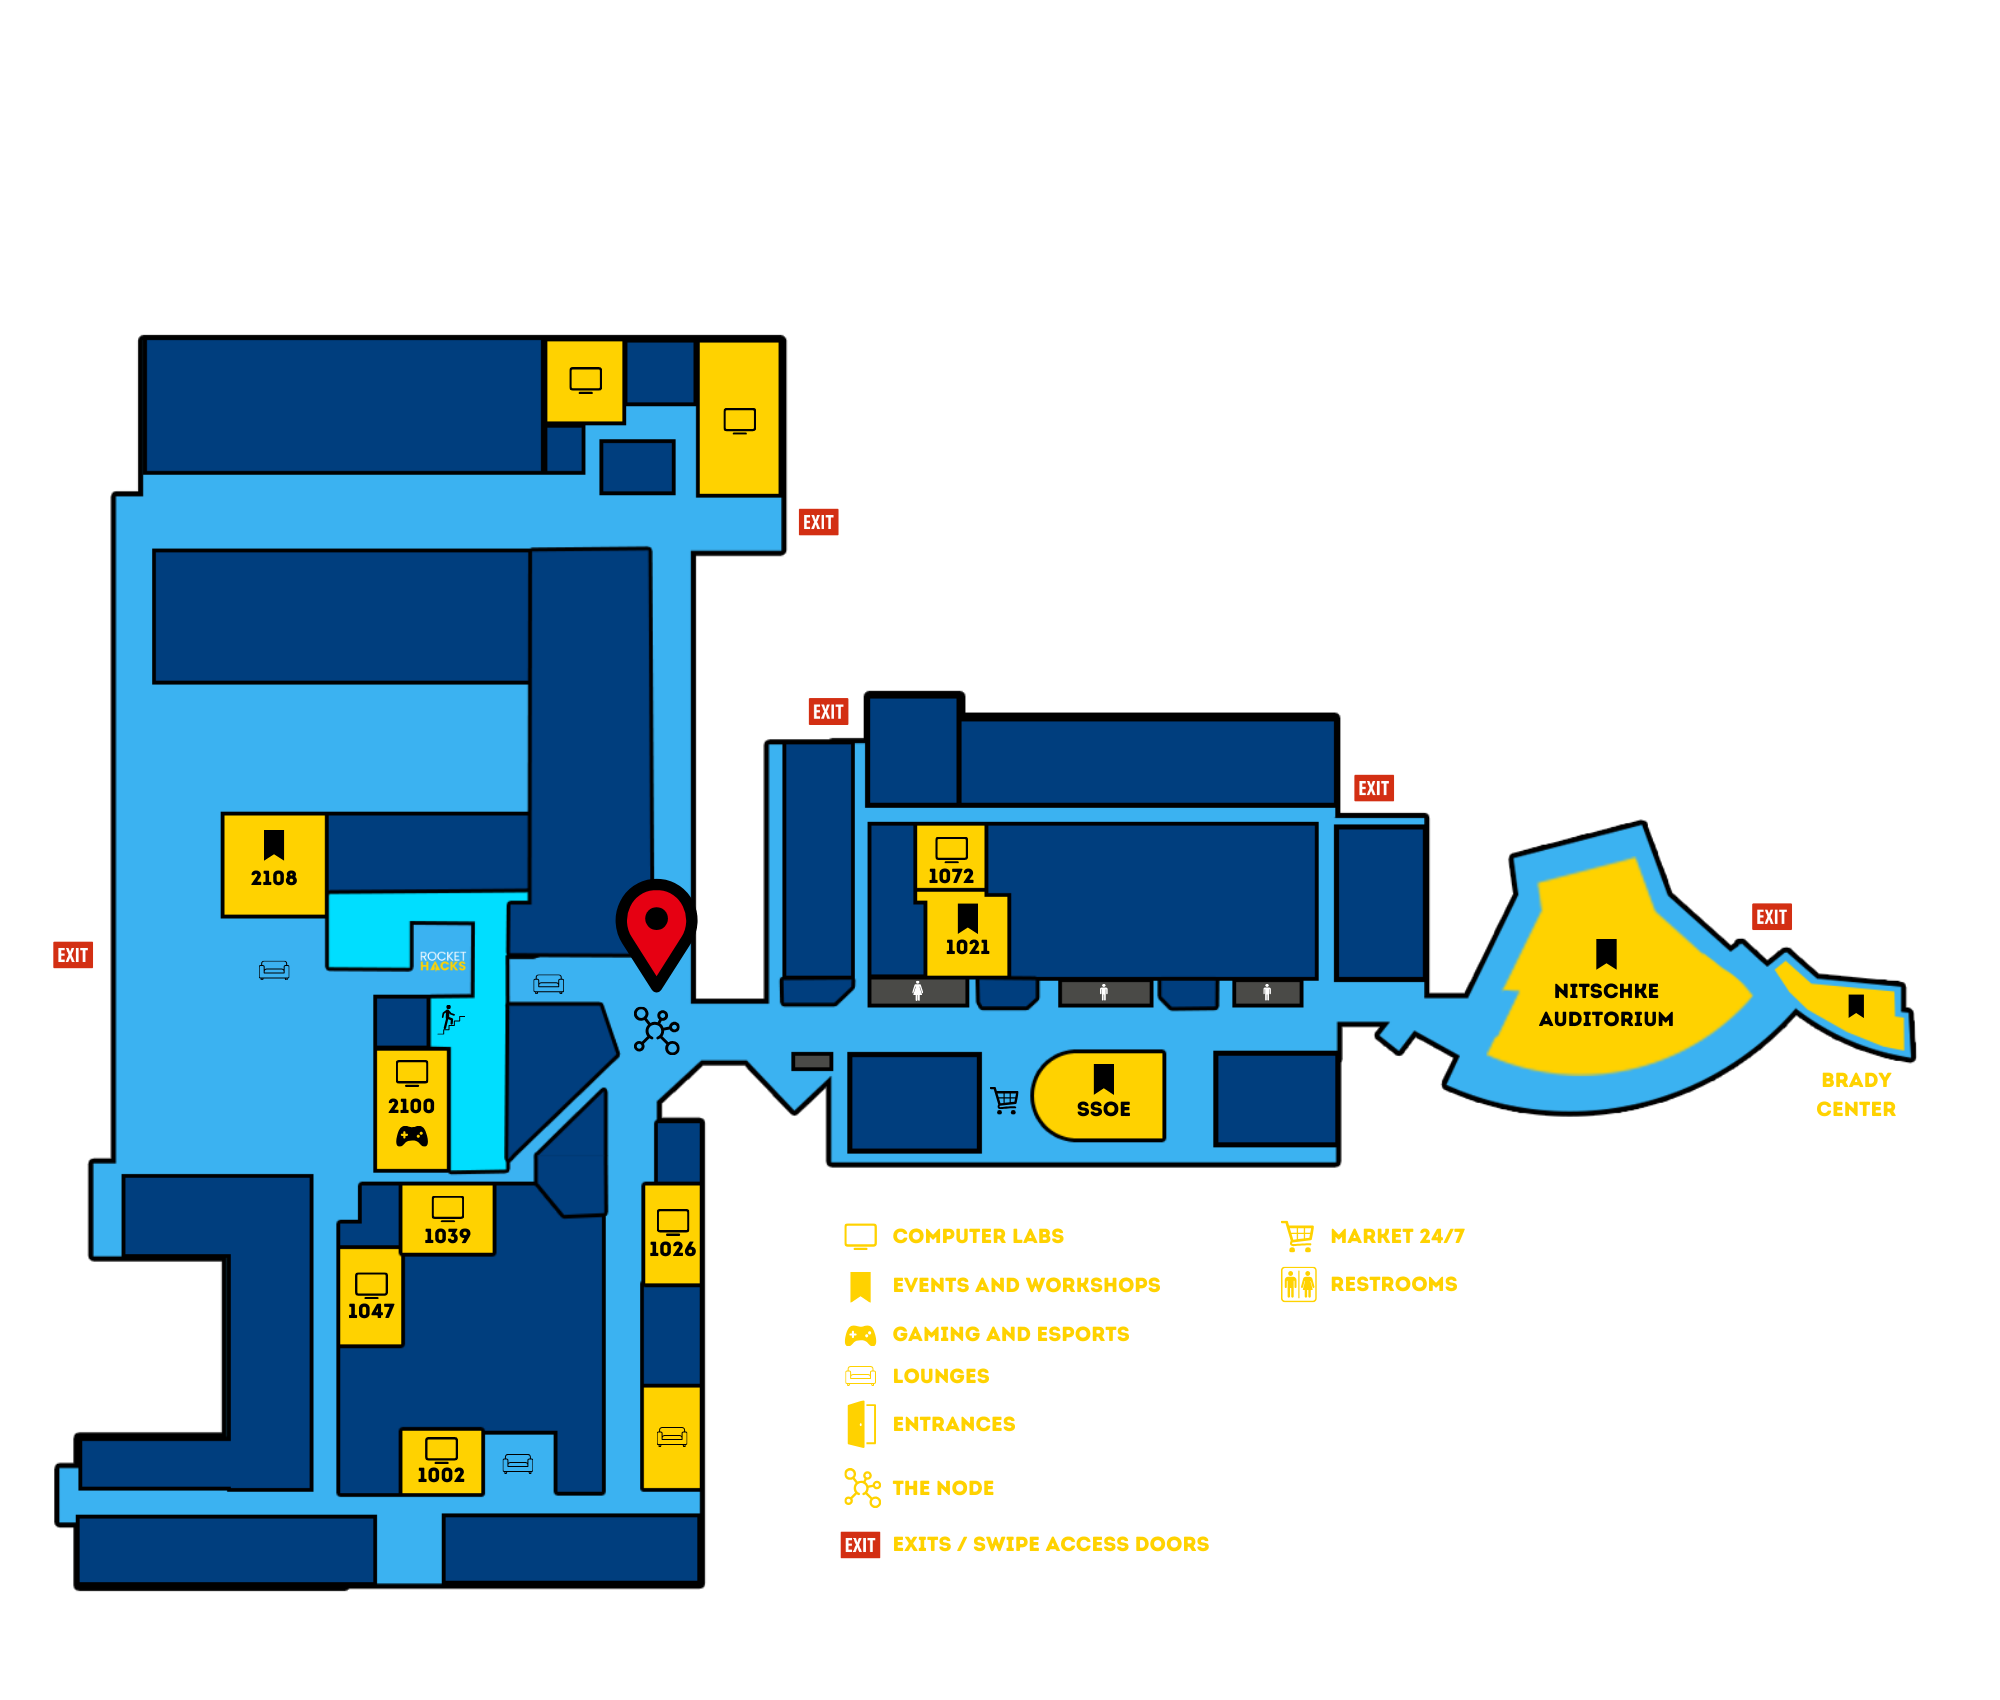
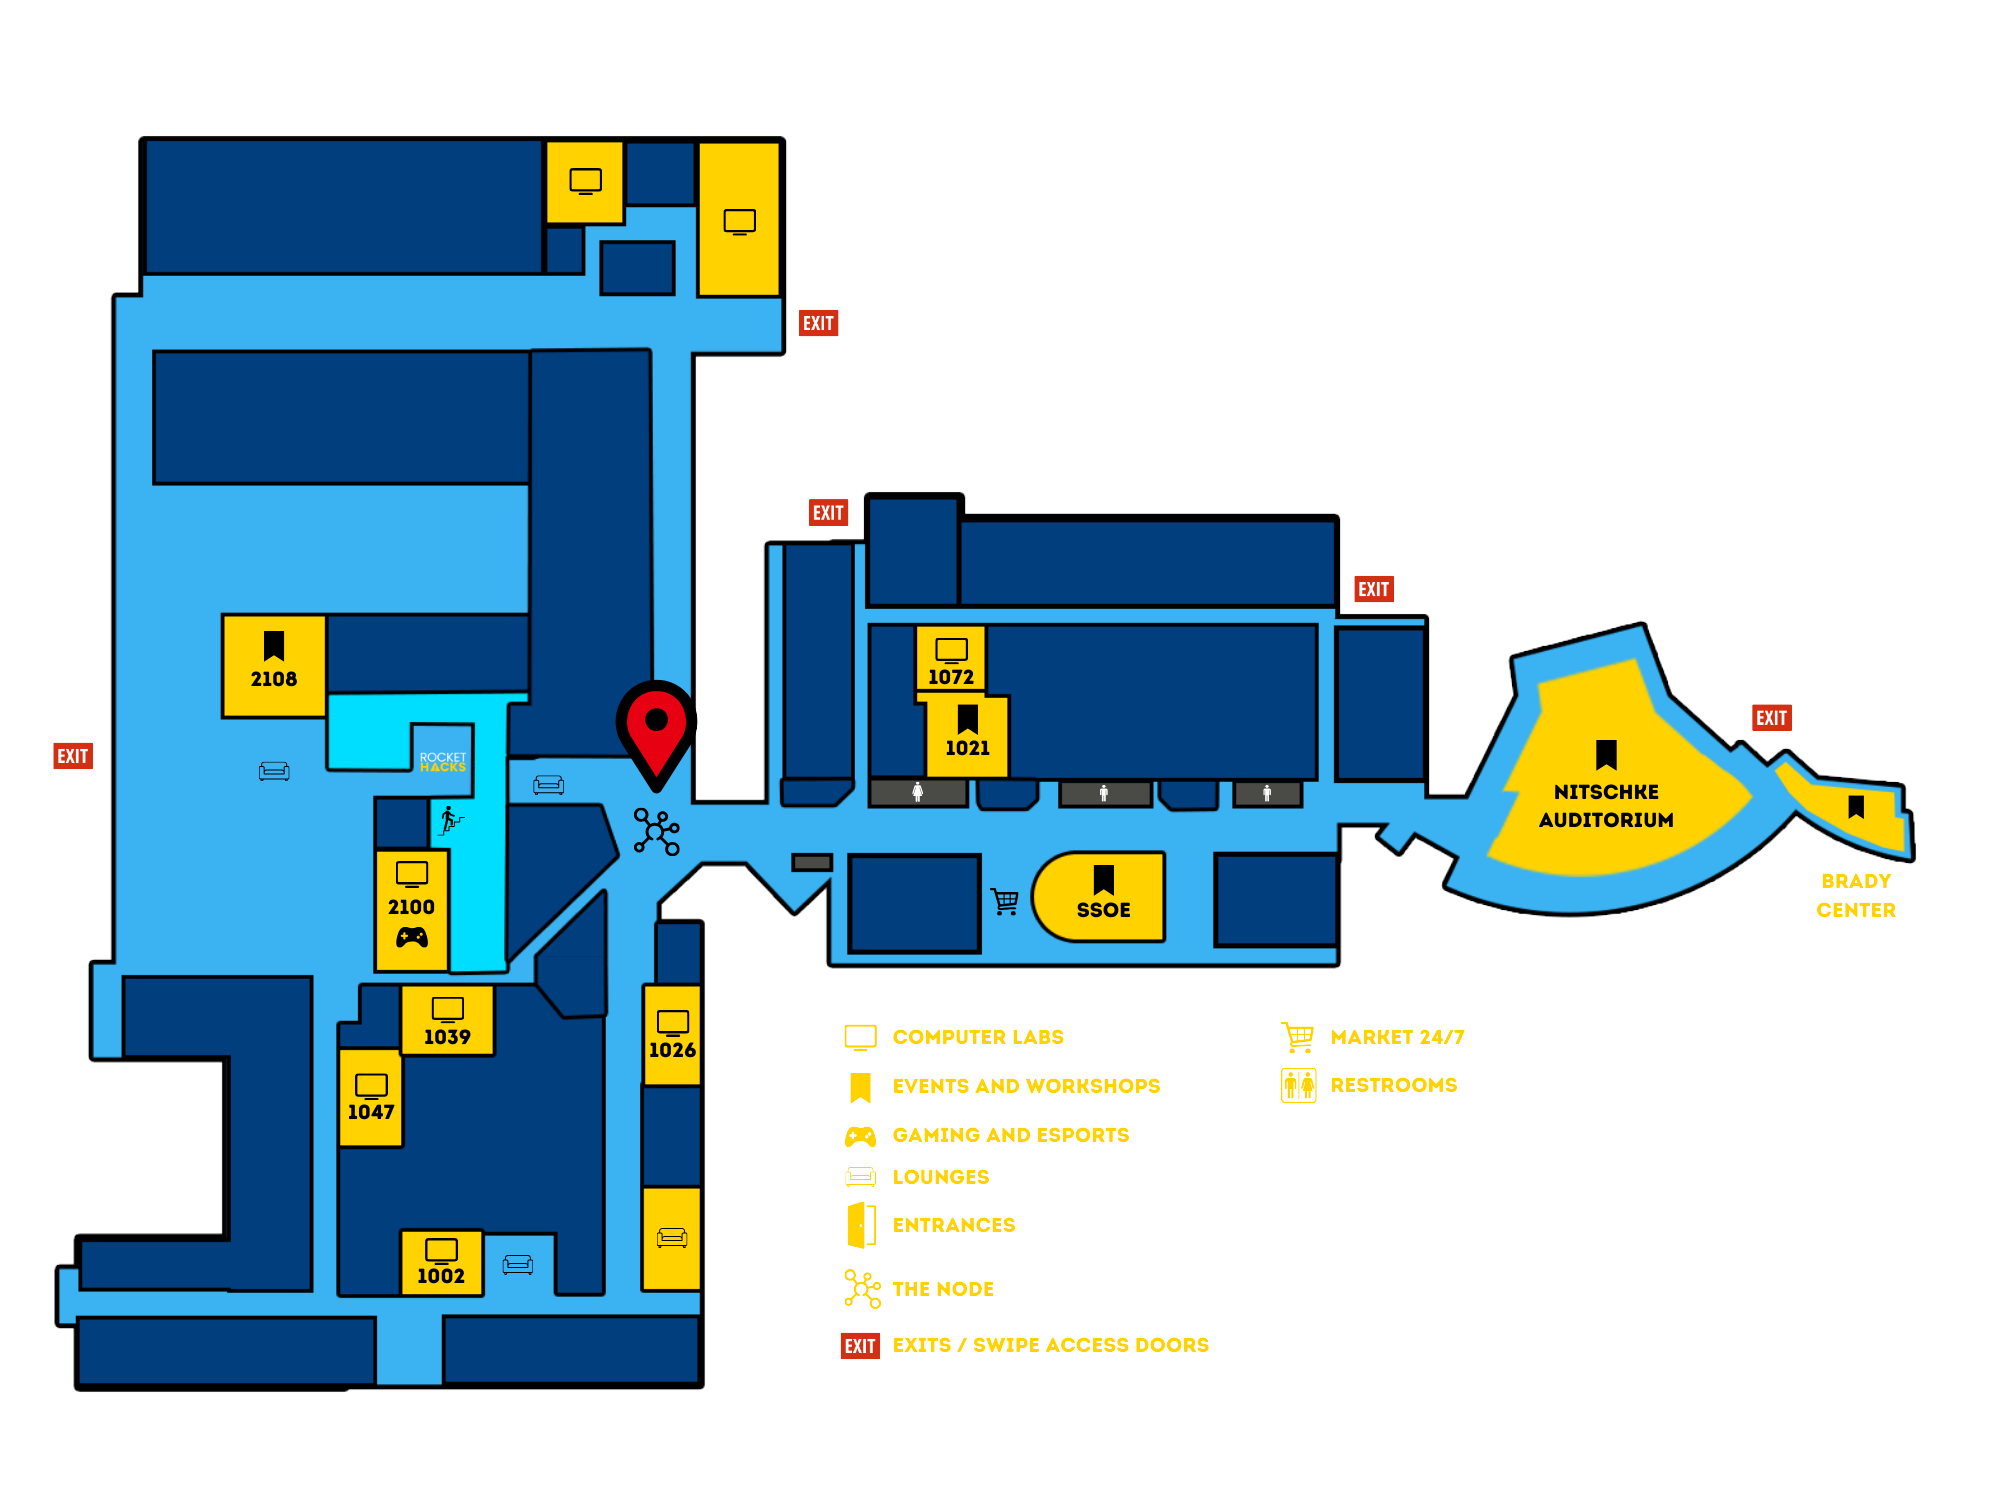
Update how the map is presented

Changed region(s): [[0.031, 0.0919, 0.961, 0.95], [0.031, 0.5516, 0.062, 0.5823], [0.031, 0.4903, 0.062, 0.521]]

diff --git a/src/components/schedule/Schedule.tsx b/src/components/schedule/Schedule.tsx
@@ -10,6 +10,7 @@ import {
 } from "@/components/ui/accordion";
 import localFont from "next/font/local";
 import { motion, AnimatePresence } from "framer-motion";
+import Link from "next/link";
 
 const terminal = localFont({ src: "../../app/fonts/terminal-grotesque.ttf" });
 
@@ -140,78 +141,25 @@ export default function Schedule() {
   const [mapMarginBottom, setMapMarginBottom] = useState(0);
   const [isLargeScreen, setIsLargeScreen] = useState(false);
 
-  // Declare mapRef before use
-  const mapRef = useRef<HTMLImageElement | null>(null);
-
   const filteredCollegeSchedule = collegeSchedule.filter(
     (item) => item.day === selectedCollegeDay
   );
-
-  // Check screen size on mount and window resize
-  useEffect(() => {
-    const checkScreenSize = () => {
-      setIsLargeScreen(window.innerWidth >= 1024); // 1024px is the typical breakpoint for lg screens
-    };
-
-    checkScreenSize(); // Check size initially
-    window.addEventListener("resize", checkScreenSize); // Check on resize
-
-    return () => {
-      window.removeEventListener("resize", checkScreenSize); // Clean up on unmount
-    };
-  }, []);
-
-  // Calculate zoom and position based on mouse location (only for lg+ screens)
-  const handleMouseMove = (e: React.MouseEvent<HTMLImageElement>) => {
-    if (!mapRef.current || !isLargeScreen) return; // Only run on large screens
-
-    const { left, top, width, height } = mapRef.current.getBoundingClientRect();
-    const mouseX = e.clientX - left;
-    const mouseY = e.clientY - top;
-
-    // Only apply zoom effect if the mouse is inside the image
-    if (mouseX < 0 || mouseY < 0 || mouseX > width || mouseY > height) {
-      return;
-    }
-
-    // Adjust the zoom level and map position based on mouse position
-    const zoomFactor = 2; // Adjust the zoom level here
-    const zoomX = ((mouseX / width) * 100).toFixed(2);
-    const zoomY = ((mouseY / height) * 100).toFixed(2);
-
-    // Increase margin-bottom more than before (e.g., zoomFactor * 50 for more space)
-    const newMarginBottom = zoomFactor > 1 ? zoomFactor * 200 : 0; // Increased the multiplier to 50
-
-    setZoomStyle({
-      transformOrigin: `${zoomX}% ${zoomY}%`,
-      transform: `scale(${zoomFactor})`,
-      transition: "transform 0.3s ease-in-out",
-    });
-
-    setMapMarginBottom(newMarginBottom); // Set margin-bottom dynamically based on zoom factor
-  };
-
-  // Reset zoom when mouse leaves
-  const handleMouseLeave = () => {
-    setZoomStyle({});
-    setMapMarginBottom(0); // Reset margin when zoom is removed
-  };
 
   return (
     <section id="schedule" className="mb-20">
       <div className="h-auto bg-cover bg-center bg-gradient-to-b from-[#051735] from-10%  to-80% to-[#030c1b]/50 px-4 py-8">
         <div className="flex flex-col items-center justify-center gap-6">
-          <div className="w-full md:w-1/2 flex justify-center items-center">
-            <img
-              ref={mapRef}
-              src="/COE_MAP_2.png"
-              alt="Event illustration"
-              className="object-cover rounded-lg shadow-lg cursor-pointer p-5"
-              style={{ ...zoomStyle, marginBottom: `${mapMarginBottom}px` }} // Apply marginBottom dynamically
-              onMouseMove={handleMouseMove} // Detect mouse position
-              onMouseLeave={handleMouseLeave} // Reset zoom when mouse leaves
-              onClick={() => setShowImageModal(true)}
-            />
+          <div className="w-full md:w-1/2 flex flex-col justify-center items-center">
+            <h1 className={`${terminal.className} text-4xl md:text-6xl text-[#FFDA20] text-center mt-5`}>EVENT MAP</h1>
+            <Link href="/Map" target="_blank" rel="noopener noreferrer">
+              <Image
+                src="/COE_MAP_2.png"
+                width={2000}
+                height={1501}
+                alt="Event illustration"
+                className="object-cover rounded-lg cursor-pointer"
+              />
+            </Link>
           </div>
           <div
             className={`${terminal.className} text-white w-full md:w-1/2 bg-slate-950/30 backdrop-blur-sm border-blue-600 border-2 rounded-md p-5`}

diff --git a/src/app/Map/page.tsx b/src/app/Map/page.tsx
@@ -1,0 +1,19 @@
+"use client";
+import React from "react";
+import Image from "next/image";
+
+export default function Map() {
+    return (
+        <>
+            <div className="h-auto bg-cover bg-center bg-gradient-to-b from-[#051735] from-10%  to-80% to-[#030c1b]/50 px-4 py-8">
+                <Image
+                    src="/COE_MAP_2.png"
+                    alt="Event illustration"
+                    width={2000}
+                    height={1501}
+                    className="object-cover rounded-lg shadow-lg cursor-pointer p-5"
+                ></Image>
+            </div>
+        </>
+    );
+}
